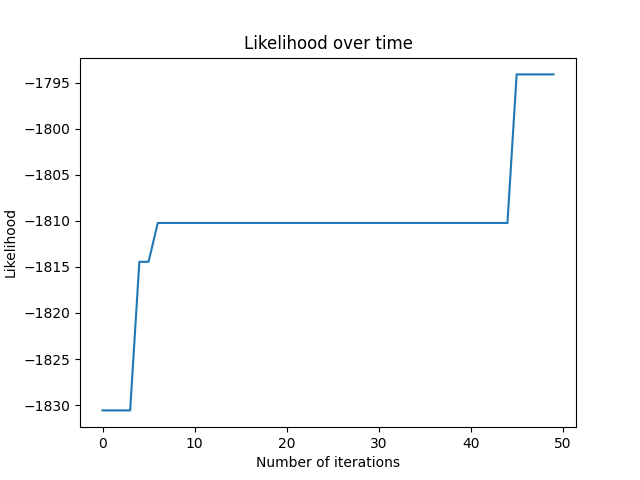
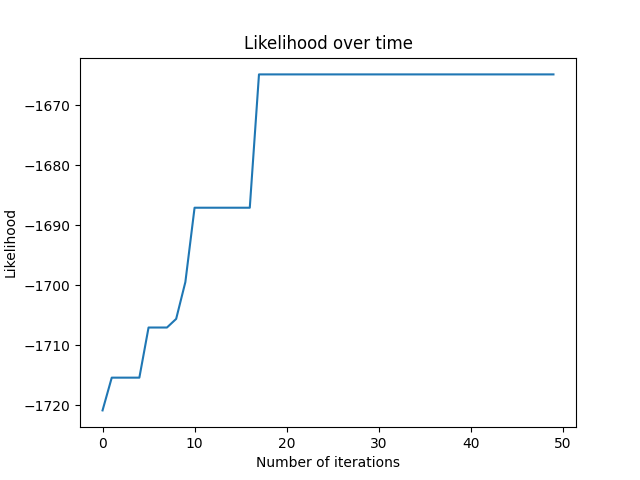
added testing for algorithm

diff --git a/code/src/main.py b/code/src/main.py
@@ -92,7 +92,7 @@ def complete(args): 	# NOTE: RANDOM WALK GNN GENERATION DOES NOT WORK AT ALL.
 	torch.save(node_model, f"{args.output_dest}/node")
 
 
-def algorithm(args):
+def algorithm(args, testing=False):
 	spr_model, gnn_model, node_model = load_models(args)
 	try:
 		tree = Tree(args.location)
@@ -106,7 +106,41 @@ def algorithm(args):
 	except Exception as e:
 		traceback.print_exc()
 
+	if testing:
+		data_files = find_data_files(os.path.join(BASE_DIR, args.location))
+		n_times = 10
+		original_scores = []
+		avg = [[]]*n_times
+		times = []
+		for file in data_files:
+			tree = Tree(file)
+			original_scores.append(calculate_raxml(tree)["ll"])
+			tree = shuffle_tree(tree, n_times)
+			t0 = time.time()
+			final_tree, path = run_algorithm(tree, spr_model, gnn_model, find_true_ll_path=False)
+			final_time = time.time() - t0
+			times.append(final_time)
+			print(f"Time taken to run: {final_time}")
+			for i, item in enumerate(path):
+				avg[i].append(item)
 
+		avg = [sum(avg[i])/len(avg[i]) for i in range(len(avg))]
+
+		print(f"Final average original score: {sum(original_scores)/len(original_scores):.2f}")
+		print(f"Final average score: {sum(avg[-1])/len(avg[-1]):.2f}")
+		print(f"Average exec time: {sum(times)/len(times):.2f}")
+
+		plt.plot(avg)
+		plt.title("Average likelihood over iterations")
+		plt.xlabel("Number of iterations")
+		plt.ylabel("Average likelihood")
+		plt.savefig("alg_output_avg")
+
+
+
+
+
+# !!!!!!!!!!!! TODO: SPR RAXML-NG TEST BEST MOVE %
 def test(args, data=None, models=None):
 	# TODAY: CHANGE TO 1 SHOT GNN
 	spr_model, gnn_model, node_model = load_models(args)
@@ -285,8 +319,8 @@ def create_dataset(tree,
 	return dataset, gnn_dataset, node_dataset, base_ll
 
 
-def shuffle_tree(tree):
-	for i in range(10):
+def shuffle_tree(tree, n_times):
+	for i in range(n_times):
 		actionSpace = tree.find_action_space()
 		action = random.choice(actionSpace)
 		tree.perform_spr(action[0], action[1], return_parent=True)

diff --git a/code/src/util/raxml_util.py b/code/src/util/raxml_util.py
@@ -13,7 +13,6 @@ def calculate_raxml(tree):
 		with open(tree_rampath, "w") as fpw:
 			fpw.write(tree.tree.format("newick"))
 
-		# TODO: extract the optimal branch lengths
 		# opt-branches on optimizes the branches
 		raxmlProcess = Popen([RAXML_NG_SCRIPT, '--evaluate', '--msa', f"{tree.location}.fasta", '--opt-branches', 'on', '--opt-model', 'off', '--model', "LG", '--nofiles', '--tree', tree_rampath], 
 			stdout=PIPE, stdin=PIPE, stderr=STDOUT)

diff --git a/code/src/algorithm.py b/code/src/algorithm.py
@@ -69,7 +69,7 @@ def test_algorithm(starting_tree, original_score, spr_model, gnn_model):
 	
 	plt.plot([original_score]*max_n_iters)
 	plt.plot(path)
-	plt.title("Likelihood over time")
+	plt.title("Likelihood over iterations")
 	plt.xlabel("Number of iterations")
 	plt.ylabel("Likelihood")
 	plt.savefig("alg_output")
